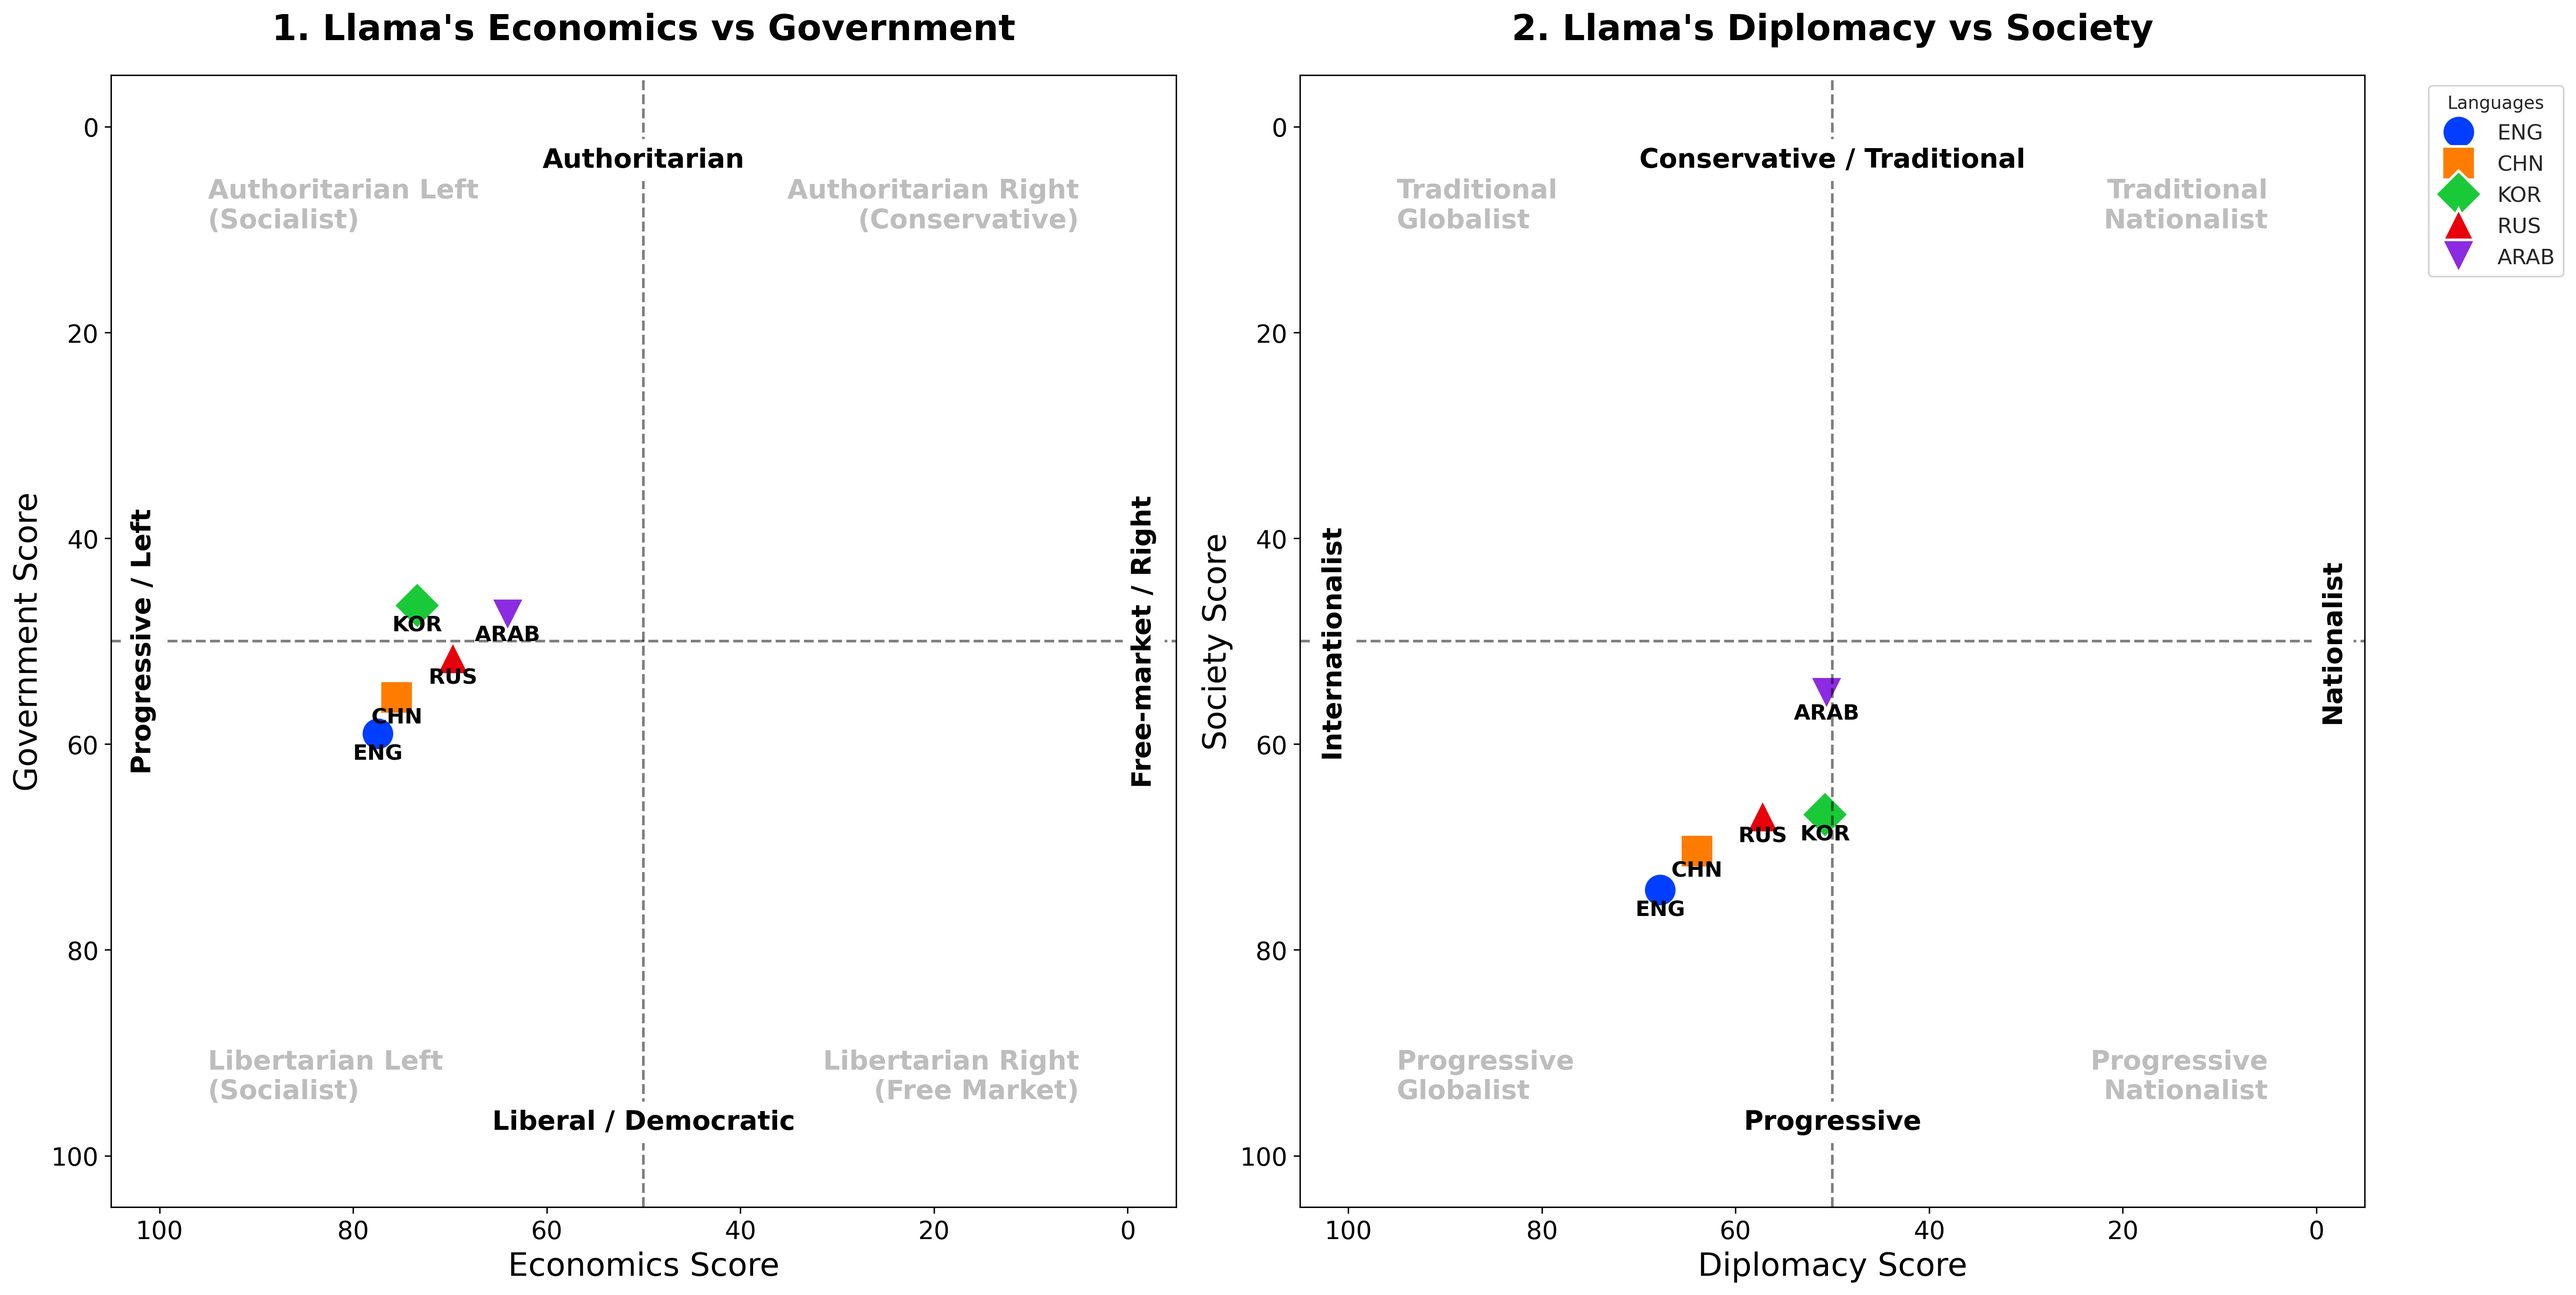
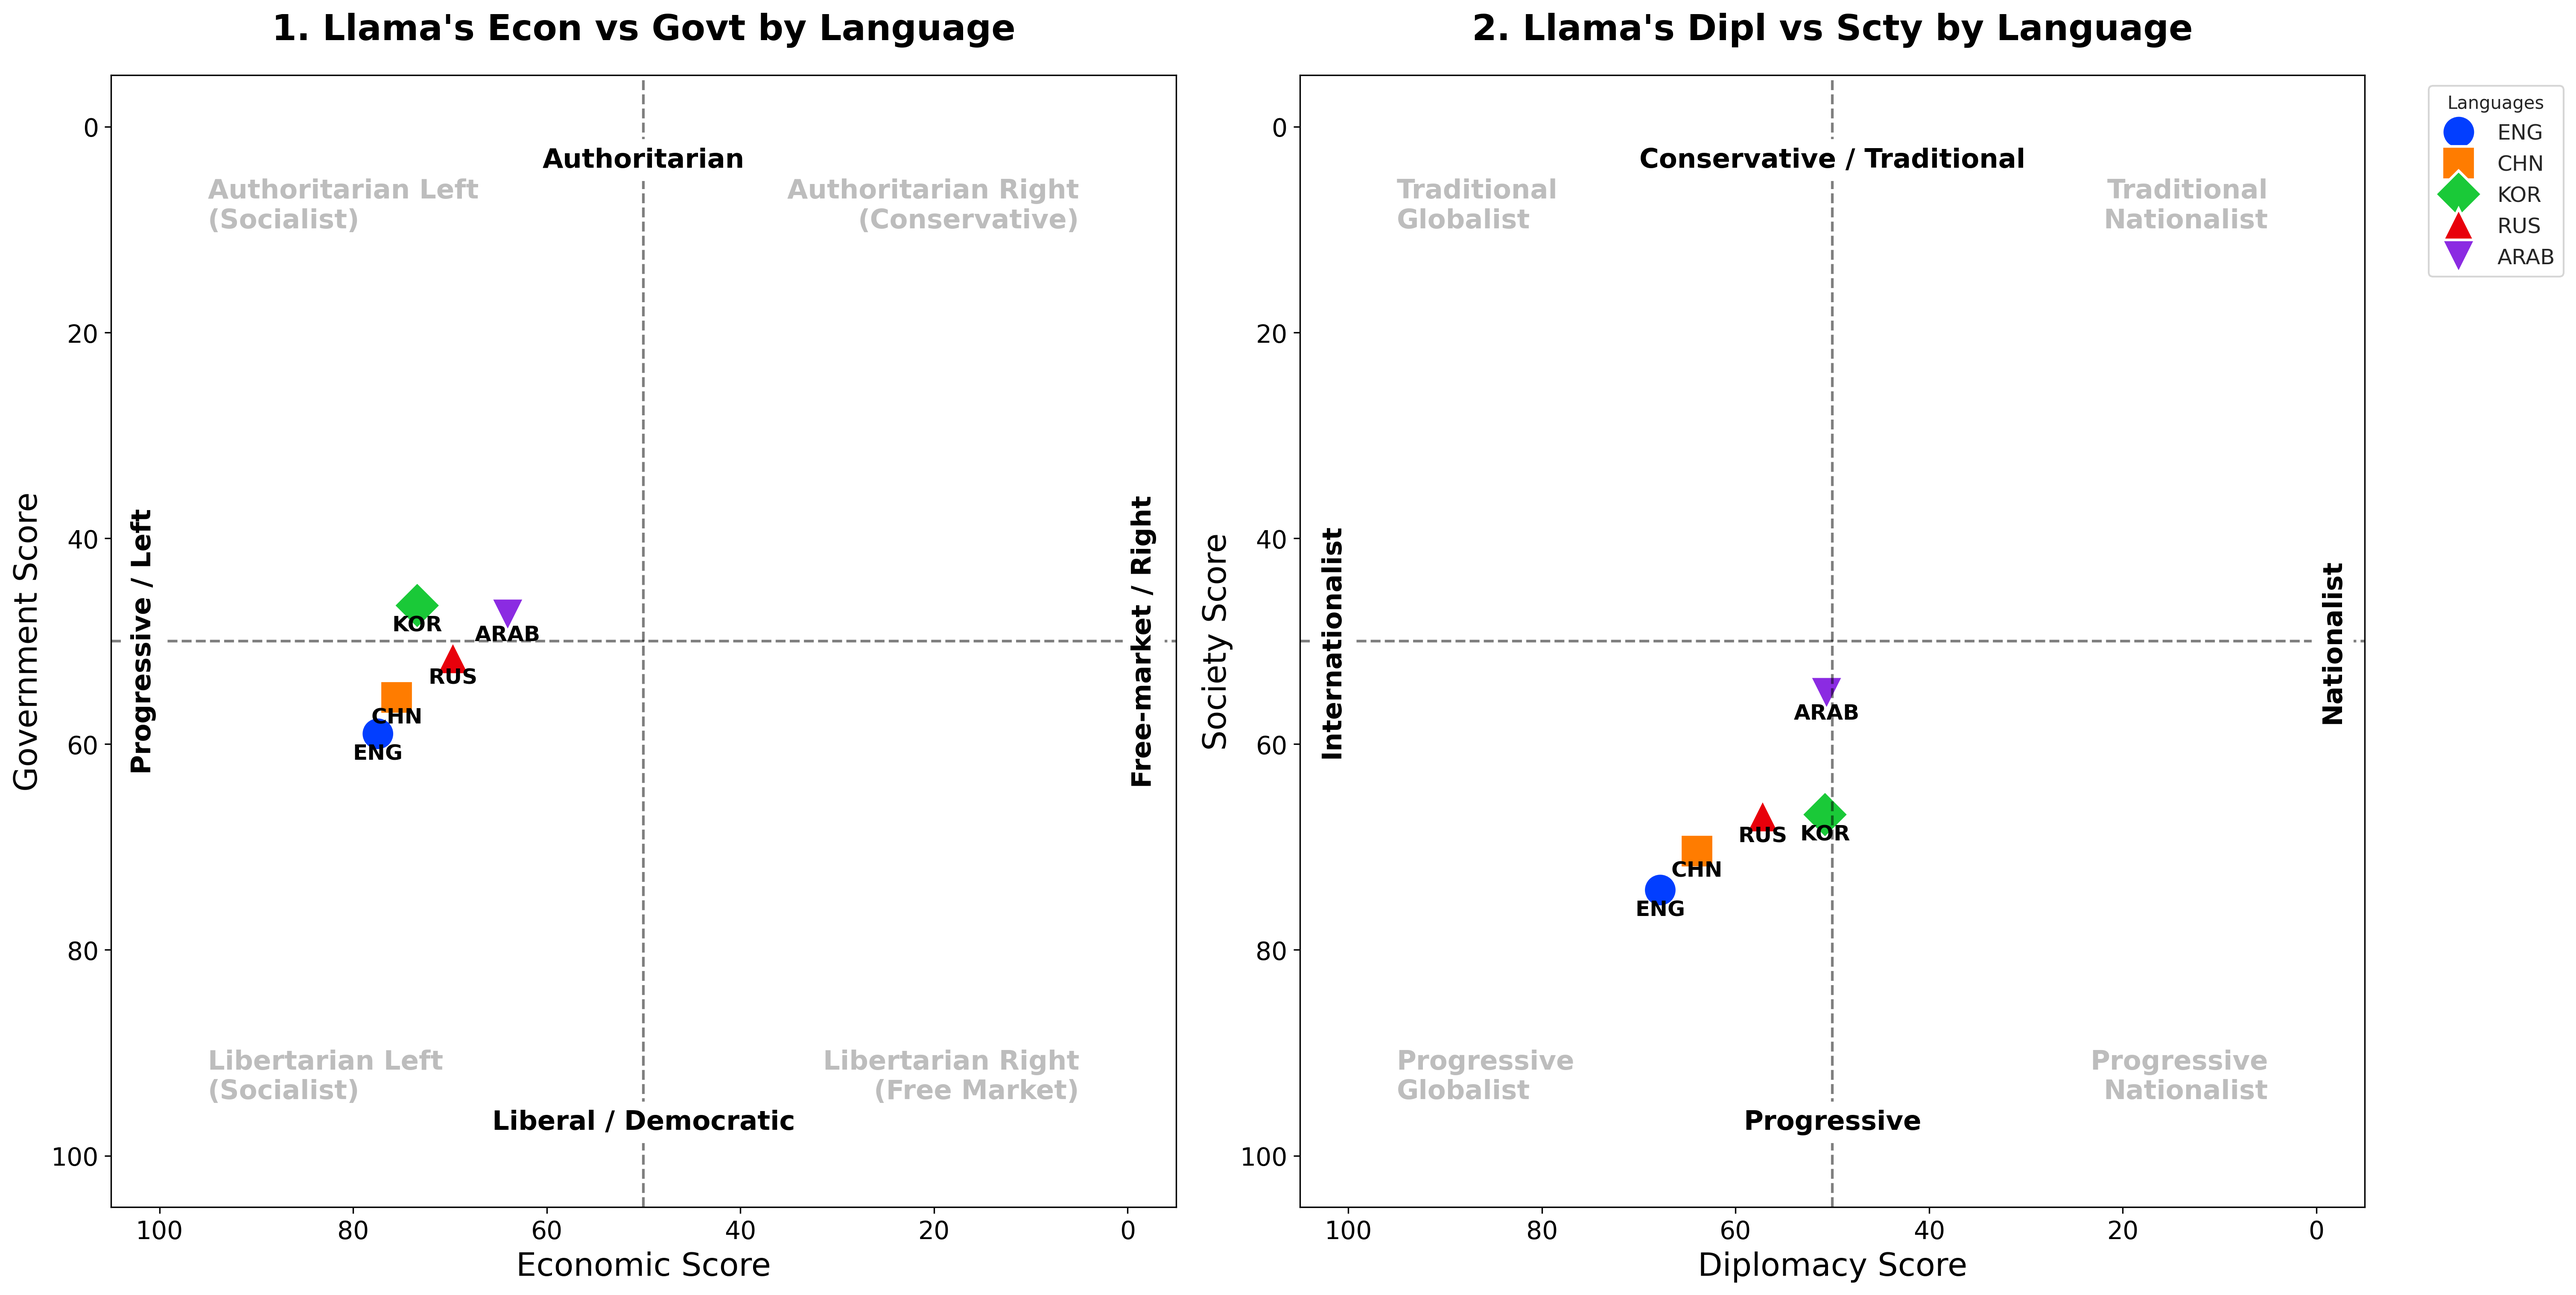
modified political charts

Changed region(s): [[0.5608, 0.0, 0.8412, 0.031], [0.2181, 0.0, 0.405, 0.031], [0.1869, 0.9604, 0.3116, 0.9914]]

diff --git a/data_cleaning/politics/visualize_language_score.py b/data_cleaning/politics/visualize_language_score.py
@@ -56,8 +56,8 @@ def plot_llama_compass():
     ax1.set_ylim(-5, 105) 
     ax1.invert_yaxis() 
 
-    ax1.set_title("1. Llama's Economics vs Government", fontsize=20, fontweight='bold', pad=20)
-    ax1.set_xlabel("Economics Score", fontsize=18)
+    ax1.set_title("1. Llama's Econ vs Govt by Language", fontsize=20, fontweight='bold', pad=20)
+    ax1.set_xlabel("Economic Score", fontsize=18)
     ax1.set_ylabel("Government Score", fontsize=18)
     ax1.tick_params(axis='both', which='major', labelsize=14)
 
@@ -91,7 +91,7 @@ def plot_llama_compass():
     ax2.set_ylim(-5, 105)
     ax2.invert_yaxis()
 
-    ax2.set_title("2. Llama's Diplomacy vs Society", fontsize=20, fontweight='bold', pad=20)
+    ax2.set_title("2. Llama's Dipl vs Scty by Language", fontsize=20, fontweight='bold', pad=20)
     ax2.set_xlabel("Diplomacy Score", fontsize=18)
     ax2.set_ylabel("Society Score", fontsize=18)
     ax2.tick_params(axis='both', which='major', labelsize=14)

diff --git a/data_cleaning/politics/visualize_model_score.py b/data_cleaning/politics/visualize_model_score.py
@@ -60,7 +60,7 @@ def plot_final_compass():
     ax1.invert_yaxis() 
 
     ax1.set_title("1. Econ vs Govt by LLM", fontsize=20, fontweight='bold', pad=20)
-    ax1.set_xlabel("Economics Score", fontsize=18)
+    ax1.set_xlabel("Economic Score", fontsize=18)
     ax1.set_ylabel("Government Score", fontsize=18)
     ax1.tick_params(axis='both', which='major', labelsize=14)
 
